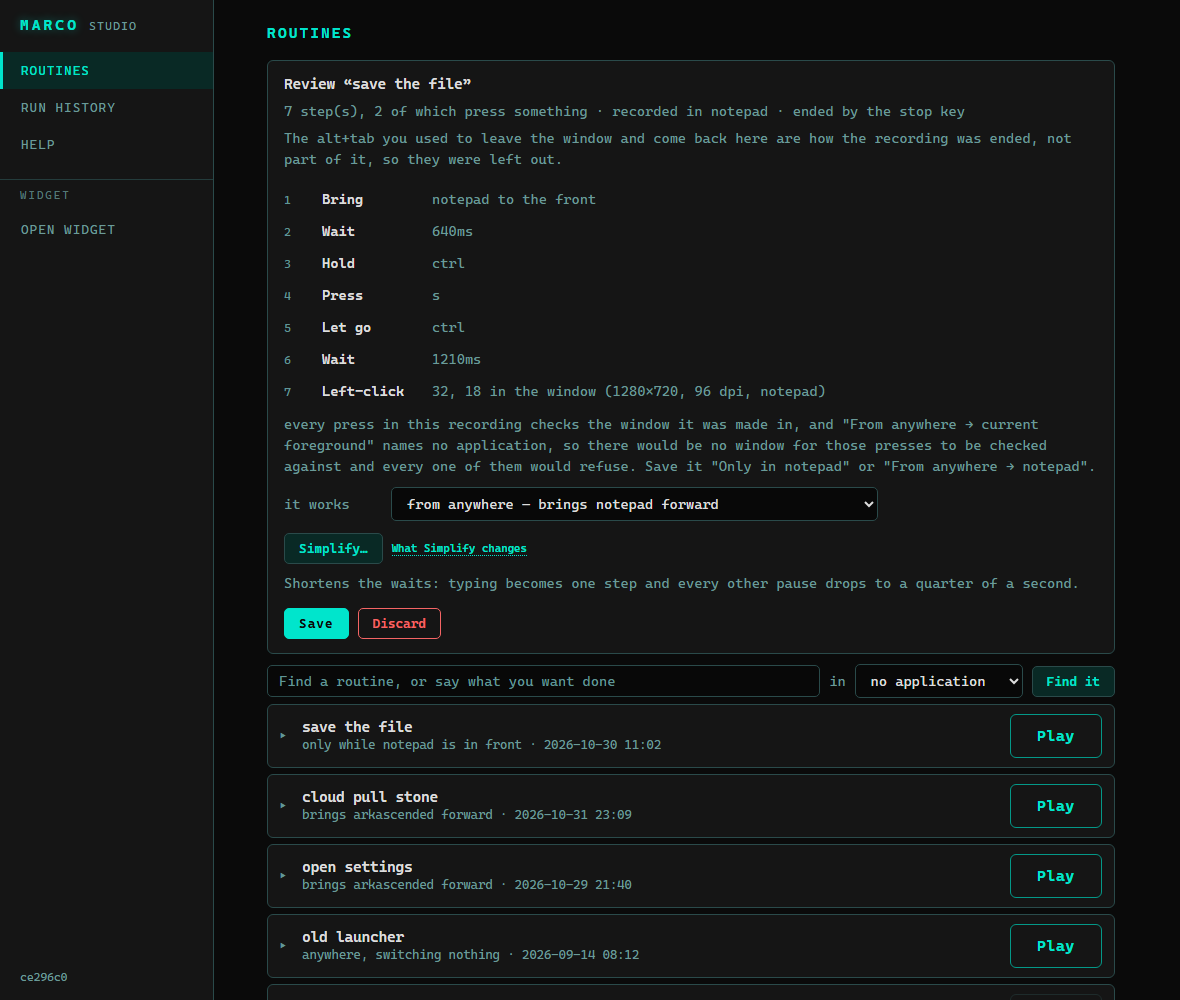
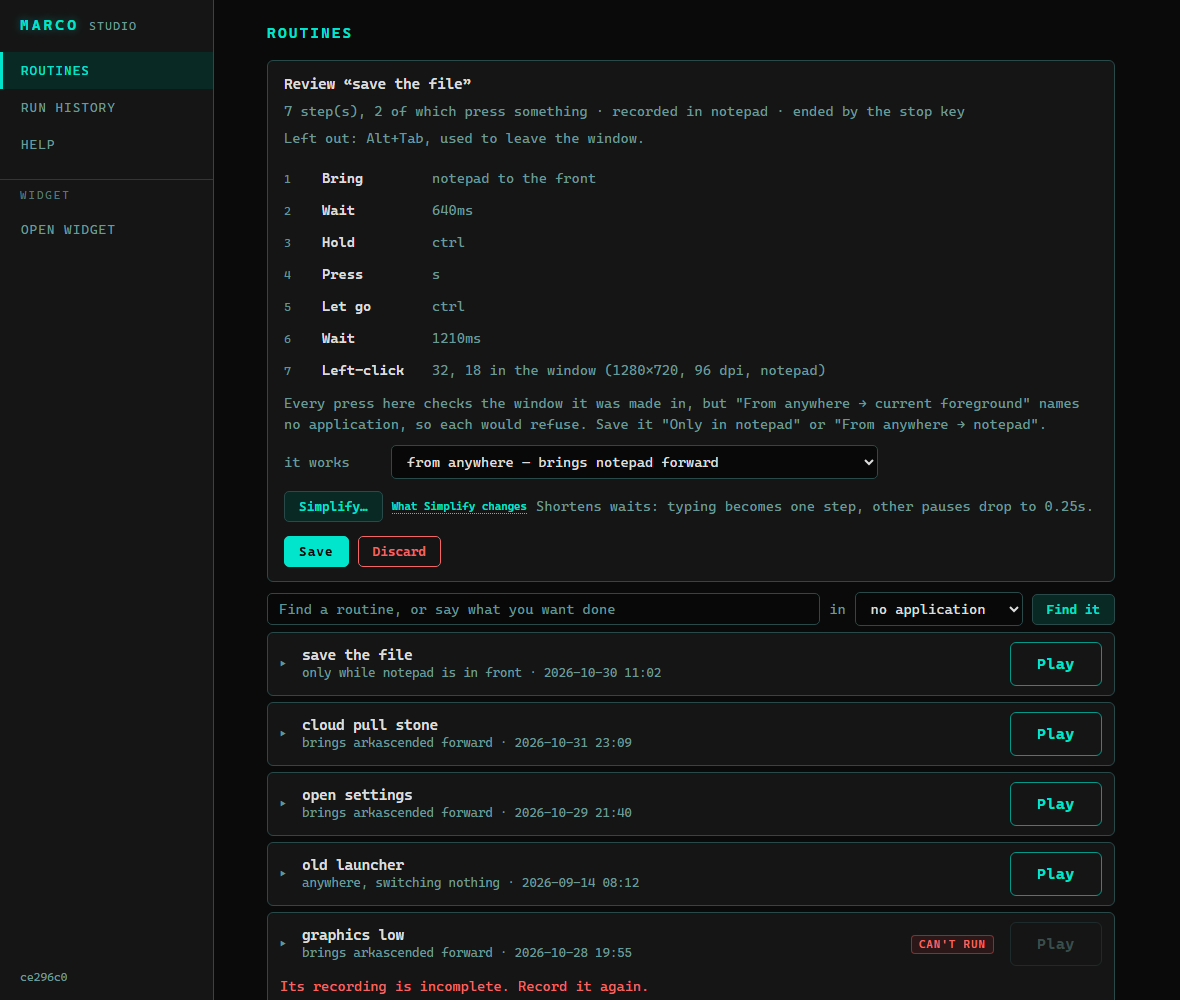
studio: compact copy
The visible sentences on the record card, the recording band, the
review and the step editor are cut to about half their words, each
keeping its facts: "Left out: Alt+Tab, used to leave the window.",
"Left out: 8s outside the window (once), and anything you did there.",
the withheld scope in 30 words instead of 51. The shared ones live in
orchestrator, so `marco learn` says the same thing.

Refusals, named consequences, the this-machine-cannot remedy and
Simplify's timing and value-loss warnings stay visible. A step's
"cannot be checked" is kept; the guard caught a first cut that dropped
it. Wording tests pin the same meanings in the new words, and the
harness fixtures carry the new wording. ADR-310, "Compact copy".

diff --git a/plugins/studio/frontend/index.html b/plugins/studio/frontend/index.html
@@ -941,7 +941,7 @@
          as well, which is what `capEverywhere` says four lines above it, from the backend.
          Two paragraphs used to sit between them and hid the repetition; with those gone the
          rendered page said it twice in one card. -->
-    <div class="muted" style="margin-top:6px">Open it first if it is not in the list.</div>
+    <div class="muted" style="margin-top:6px">Not listed? Open it, then refresh.</div>
     <div class="row" style="margin-top:10px"><label style="width:7em" for="capName">call it</label>
       <input type="text" id="capName" placeholder="what you will ask Marco for"></div>
     <!-- AND HOW TO MAKE A VALUE SOMETHING YOU SUPPLY, UNDER THE FIELD IT IS ABOUT.
@@ -1034,8 +1034,7 @@
     <div class="muted hide" style="margin-top:8px" id="capArgBand"></div>
     <!-- ONE SENTENCE, AND IN THIS PRODUCT'S WORDS. It said "what you are teaching", and TEACH is
          reserved for the mirror image of this: Marco guiding a person. See CLAUDE.md. -->
-    <div class="muted" style="margin-top:12px">Switching back to this window is left out of
-      the recording.</div>
+    <div class="muted" style="margin-top:12px">Coming back to Studio is not recorded.</div>
     <div class="row" style="margin-top:10px">
       <button class="go" id="capStopBtn" onclick="stopCapture()">Stop recording</button>
       <button class="stop" onclick="cancelCapture()">Cancel</button>
@@ -1336,8 +1335,7 @@
          is moved; the honest failure of changing the rule is silence, so it says its name. -->
     <div class="banner hide" style="margin-top:8px" id="libElsewhere"></div>
     <div id="routineList" style="margin-top:4px"></div>
-    <div class="muted hide" id="routineNone">Nothing has been recorded yet. Record one
-      above and it appears here.</div>
+    <div class="muted hide" id="routineNone">No routines yet. Press Record to make one.</div>
     <!-- WHERE THE PANEL WAITS WHILE NO ROUTINE IS OPEN.
          ONE PANEL, CARRIED, AND NEVER REBUILT. Every routine is a row that opens
          where it is, and what opens is this one set of elements moved into that
@@ -3300,14 +3298,13 @@
      const names = ns => ns.map(n => '“' + n + '”').join(', ')
      const marked = r.marked || [], unmarked = r.unmarked || []
      text($('capSimplifySays'), r.simplified
-       ? 'Simplified: typing is one step and every other pause is a quarter of a ' +
-         'second. If it then presses before a screen has caught up, use the original.' +
-         (unmarked.length ? ' Simplifying took off ' + names(unmarked) +
-           ', so that text is typed as recorded again — mark it again to be asked for it.' : '')
-       : 'Shortens the waits: typing becomes one step and every other pause drops to ' +
-         'a quarter of a second.' +
-         (marked.length ? ' It also takes off ' + names(marked) +
-           ', so that text would be typed as recorded again.' : ''))
+       ? 'Simplified: typing is one step, other pauses are 0.25s. If it presses before ' +
+         'the screen catches up, use the original.' +
+         (unmarked.length ? ' Took off ' + names(unmarked) +
+           ': it types as recorded again. Mark it again to be asked for it.' : '')
+       : 'Shortens waits: typing becomes one step, other pauses drop to 0.25s.' +
+         (marked.length ? ' Also takes off ' + names(marked) +
+           ', so that text types as recorded.' : ''))
      // WHICH ROUTINE THIS WILL BE, from the draft's own name. See capReviewName.
      text($('capReviewName'), r.name ? 'Review “' + r.name + '”' : 'Review this recording')
      // WITHOUT ITS FULL STOP, because the line goes on: ` · recorded in … · ended by …`.

diff --git a/docs/images/studio-ui/9-harness/fixtures.js b/docs/images/studio-ui/9-harness/fixtures.js
@@ -1,7 +1,7 @@
 // FIXTURES — production wording, quoted from the Go backend (file:line in the audit doc).
-const CAPTURES = 'Where you press and how long you pause, and nothing about how the screen looked. It does not take a picture of anything.'
-const EVERYWHERE = 'Records actions in the window you choose. Recording pauses outside it. Return to Studio and press Stop, or press F12.'
-const ARG_SAYS = 'Press F9 during the demonstration where the routine should ask for a value instead of typing it. Add \u201cwith item\u201d to the name above and the value is called item.'
+const CAPTURES = 'Records where you press and how long you pause. It does not take a picture of the screen.'
+const EVERYWHERE = 'Records only the window you choose, and pauses when you leave it. Stop with F12 or the Stop button.'
+const ARG_SAYS = 'Press F9 where the routine should ask for a value instead of typing. Add \u201cwith item\u201d to the name to call it item.'
 const WROTE = "This routine states that generation 1 of Marco's rules wrote it, which is the generation this build writes. You can review a version rebuilt from its stored recording, which will show whether it differs from what is saved."
 const LEGACY = 'Its presses are not checked: each one happens at the point it was recorded at, whatever is there now.'
 const NP = 'notepad \u2014 Untitled - Notepad'
@@ -28,6 +28,7 @@ window.LIB = [
   {id: 'arkascended/focus/graphics-low', name: 'graphics low', slug: 'graphics-low', app: 'arkascended',
    scope: 'app-anywhere', contract: 'incomplete', mode: 'coordinates', captures: CAPTURES, runnable: false,
    why: 'The recording is missing how wide that window was and what scale it was drawn at, so every press refuses. Record it again.',
+   cant: 'Its recording is incomplete. Record it again.',
    saved_at: '2026-10-28 19:55', generation: 'current', declared_generation: '1', wrote: WROTE, rebuildable: true, offer: true,
    source: '// Recorded as: coordinates.\nuse os.\n'},
 ]

diff --git a/docs/images/studio-ui/9-harness/states/17-review-simplified.js b/docs/images/studio-ui/9-harness/states/17-review-simplified.js
@@ -2,7 +2,7 @@ F.Recording = {active: false, review: true, name: 'type a note', application: 'n
   mode: 'coordinates', captures: CAPTURES, everywhere: EVERYWHERE, arg_key: 'F9', stop_key: 'F12', pressable: 2, basis: 'b3',
   steps: ['bring notepad to the front', 'wait 250ms', 'left-click at 400, 300 in the window (1280\u00d7720, 96 dpi, notepad)', 'wait 250ms', 'type "draft notes"', 'press enter'],
   said: '6 step(s), 3 of which press something.', simplified: true, original: true, unmarked: ['note'],
-  default_scope: 'app-anywhere', unavailable: {everywhere: 'every press in this recording checks the window it was made in, and "From anywhere → current foreground" names no application, so there would be no window for those presses to be checked against and every one of them would refuse. Save it "Only in notepad" or "From anywhere → notepad".'},
+  default_scope: 'app-anywhere', unavailable: {everywhere: 'Every press here checks the window it was made in, but "From anywhere → current foreground" names no application, so each would refuse. Save it "Only in notepad" or "From anywhere → notepad".'},
   supply: [{at: 4, label: 'step 5 \u2014 types "draft notes"'}],
-  supply_says: 'Ask for a value instead of typing it: pick a step, name the value, and the routine will ask for it when you play it.'}
+  supply_says: 'Pick a typed step and name it, and Play will ask for that value instead of typing it.'}
 __at(1500, () => __scrollTo('capReview', 60))

diff --git a/docs/images/studio-ui/9-harness/states/08-review-refusal.js b/docs/images/studio-ui/9-harness/states/08-review-refusal.js
@@ -4,9 +4,9 @@ F.Recording = {active: false, review: true, name: 'graphics low', application: '
           'left-click at 960, 540 in the window (1920\u00d71080, cannot be checked \u2014 what scale it was drawn at was not measured)',
           'wait 700ms', 'left-click at 412, 655 in the window (1920\u00d71080, cannot be checked \u2014 what scale it was drawn at was not measured)'],
   said: '6 step(s), 3 of which press something.',
-  away: 'You left the window once, for 8s in all. Nothing from out there was recorded, and the waiting is not in the routine.',
+  away: 'Left out: 8s outside the window (once), and anything you did there.',
   incomplete: true,
   missing: '2 presses are missing measurements: what scale it was drawn at. Record it again with the program in front of you.',
   default_scope: 'app-anywhere',
-  unavailable: {everywhere: 'every press in this recording checks the window it was made in, and "From anywhere → current foreground" names no application, so there would be no window for those presses to be checked against and every one of them would refuse. Save it "Only in arkascended" or "From anywhere → arkascended".'}}
+  unavailable: {everywhere: 'Every press here checks the window it was made in, but "From anywhere → current foreground" names no application, so each would refuse. Save it "Only in arkascended" or "From anywhere → arkascended".'}}
 __at(1500, () => __scrollTo('capReview', 60))

diff --git a/docs/images/studio-ui/9-harness/states/07-review.js b/docs/images/studio-ui/9-harness/states/07-review.js
@@ -3,7 +3,7 @@ F.Recording = {active: false, review: true, name: 'save the file', application: 
   steps: ['bring notepad to the front', 'wait 640ms', 'hold ctrl', 'press s', 'let go of ctrl', 'wait 1210ms',
           'left-click at 32, 18 in the window (1280\u00d7720, 96 dpi, notepad)'],
   said: '7 step(s), 2 of which press something.',
-  exit: 'The alt+tab you used to leave the window and come back here are how the recording was ended, not part of it, so they were left out.',
+  exit: 'Left out: Alt+Tab, used to leave the window.',
   default_scope: 'app-anywhere',
-  unavailable: {everywhere: 'every press in this recording checks the window it was made in, and "From anywhere → current foreground" names no application, so there would be no window for those presses to be checked against and every one of them would refuse. Save it "Only in notepad" or "From anywhere → notepad".'}}
+  unavailable: {everywhere: 'Every press here checks the window it was made in, but "From anywhere → current foreground" names no application, so each would refuse. Save it "Only in notepad" or "From anywhere → notepad".'}}
 __at(1500, () => __scrollTo('capReview', 60))

diff --git a/docs/images/studio-ui/9-harness/states/06-paused.js b/docs/images/studio-ui/9-harness/states/06-paused.js
@@ -1,4 +1,4 @@
 F.Recording = {active: true, name: 'save the file', stop_key: 'F12', mode: 'coordinates', captures: CAPTURES,
   everywhere: EVERYWHERE, arg_key: 'F9', arg_says: ARG_SAYS, window: NP,
-  paused: 'Paused: you have left ' + NP + '. Nothing you do elsewhere is being recorded. (12s)'}
+  paused: 'Paused: you left ' + NP + '. Nothing elsewhere is being recorded. (12s)'}
 __at(1200, () => __scrollTo('capturing', 60))

diff --git a/plugins/studio/recording.go b/plugins/studio/recording.go
@@ -801,9 +801,8 @@ func (a *Acts) Recording() Recording {
 		out.Window = window
 		if shot != nil {
 			if paused, since := shot.Paused(); paused {
-				out.Paused = fmt.Sprintf("Paused: you have left %s. "+
-					"Nothing you do elsewhere is being recorded. "+
-					"(%s)", nameOr(window, "the window"),
+				out.Paused = fmt.Sprintf("Paused: you left %s. Nothing "+
+					"elsewhere is being recorded. (%s)", nameOr(window, "the window"),
 					since.Round(time.Second))
 			}
 		}
@@ -999,8 +998,8 @@ func oneStep(s macroir.Step) string {
 func capturesSentence(m orchestrator.RecordedAs) string {
 	switch m {
 	case orchestrator.Coordinates:
-		return "Where you press and how long you pause, and nothing about how the " +
-			"screen looked. It does not take a picture of anything."
+		return "Records where you press and how long you pause. It does not take a " +
+			"picture of the screen."
 	}
 	return "what this recording captures is not being stated, so it depends on how " +
 		"Marco was started"
@@ -1304,8 +1303,8 @@ func (a *Acts) Resave(id string) string {
 // rule moves again the sentence moves with it rather than going quietly stale. Held by
 // `TestTheWindowSaysWhatARecordingTakesInBeforeRecord`.
 func everywhereSentence(stopKey string) string {
-	return "Records actions in the window you choose. Recording pauses outside it. " +
-		"Return to Studio and press Stop, or press " + stopKey + "."
+	return "Records only the window you choose, and pauses when you leave it. Stop " +
+		"with " + stopKey + " or the Stop button."
 }
 
 // argKeyLabel is the configured "an argument goes here" key, as a person would read it, or ""
@@ -1352,9 +1351,8 @@ func argSentence(key string, argNames []string) string {
 		return "Press " + key + " where each value goes, in order: " +
 			strings.Join(argNames, ", ") + "."
 	default:
-		return "Press " + key + " during the demonstration where the routine " +
-			"should ask for a value instead of typing it. Add " +
-			"“with item” to the name above and the value is called item."
+		return "Press " + key + " where the routine should ask for a value instead " +
+			"of typing. Add “with item” to the name to call it item."
 	}
 }
 

diff --git a/internal/orchestrator/draft.go b/internal/orchestrator/draft.go
@@ -428,9 +428,10 @@ func (dr *Draft) AwaySentence() string {
 	if dr.Absences > 1 {
 		times = fmt.Sprintf("%d times", dr.Absences)
 	}
-	return fmt.Sprintf("You left the window %s, for %s in all. Nothing from out there was "+
-		"recorded, and the waiting is not in the routine.", times,
-		dr.Away.Round(time.Second))
+	// "LEFT OUT:" FIRST, because that is the news, and the time is both halves of it: the
+	// wait is out of the routine, and so is whatever was done meanwhile.
+	return fmt.Sprintf("Left out: %s outside the window (%s), and anything you did there.",
+		dr.Away.Round(time.Second), times)
 }
 
 // ExitSentence is what review tells the person was left out of their demonstration, or "" when
@@ -446,8 +447,21 @@ func (dr *Draft) ExitSentence() string {
 	if dr == nil || len(dr.Exit) == 0 {
 		return ""
 	}
-	return "The " + joinWords(dr.Exit) + " you used to leave the window and come back " +
-		"here are how the recording was ended, not part of it, so they were left out."
+	// AS THEY ARE PRESSED: `Alt+Tab`, the way the keys are written on a keyboard, and not
+	// "alt and tab", which reads as two separate things somebody did.
+	return "Left out: " + chordWords(dr.Exit) + ", used to leave the window."
+}
+
+// chordWords is keys as somebody writes them down: each capitalised, joined by `+`.
+func chordWords(keys []string) string {
+	out := make([]string, 0, len(keys))
+	for _, k := range keys {
+		if k == "" {
+			continue
+		}
+		out = append(out, strings.ToUpper(k[:1])+k[1:])
+	}
+	return strings.Join(out, "+")
 }
 
 // Save writes a draft as legal Marco, under the scope it is given.

diff --git a/plugins/studio/exitgesture_test.go b/plugins/studio/exitgesture_test.go
@@ -73,7 +73,7 @@ func TestComingBackByAltTabLeavesARecordingThatSaves(t *testing.T) {
 	// AND REVIEW SAYS SO. This is the only thing the boundary takes out instead of
 	// refusing, so the card has to name it: the person is the only one who can say that
 	// the Alt they held was something they meant.
-	if !strings.Contains(r.Exit, "alt and tab") {
+	if !strings.Contains(r.Exit, "Left out: Alt+Tab") {
 		t.Errorf("the review card says %q about what it left out", r.Exit)
 	}
 }
@@ -144,7 +144,7 @@ setTimeout(() => {
   // gives: an element shown with nothing in it cannot be told from an absent one by
   // reading its text, and a mutation that showed it unconditionally survives a
   // claim-level assertion on its own.
-  document.title = 'exitsaid=' + (shown.includes('alt and tab') ? 1 : 0) +
+  document.title = 'exitsaid=' + (shown.includes('Left out: Alt+Tab') ? 1 : 0) +
     ' exitbox=' + (el.classList.contains('hide') ? 0 : 1)
 }, 5200)`)
 	if !strings.Contains(title, "exitsaid=") {
@@ -164,8 +164,7 @@ setTimeout(() => {
 func TestTheReviewCardSaysWhatTheWayOutLeftOut(t *testing.T) {
 	title, n := aRenderedExitPage(t, `{review: true, name: 'enter freeplay',
 		steps: ['press the left button at 722, 210 in the window'], pressable: 1,
-		exit: 'The alt and tab you used to leave the window and come back here ' +
-			'are how the recording was ended, not part of it, so they were left out.'}`)
+		exit: 'Left out: Alt+Tab, used to leave the window.'}`)
 	if n("exitsaid") != 1 {
 		t.Errorf("the card does not say what was left out: %q", title)
 	}

diff --git a/internal/orchestrator/inwindow_test.go b/internal/orchestrator/inwindow_test.go
@@ -392,15 +392,15 @@ func TestTheChosenWindowClosingEndsARecordingNobodyStopped(t *testing.T) {
 // that the recorder missed something. This is the terminal; `plugins/studio`
 // `TestReviewSaysTheWindowWasLeft` is the window.
 func TestTheTerminalSaysTheWindowWasLeft(t *testing.T) {
-	// THE SENTENCE ITSELF: how often, how long, and that neither the input nor the
-	// waiting is in the routine.
+	// THE SENTENCE ITSELF: how often, how long, and that the wait and the input are both
+	// left out of the routine.
 	rec := &confinedRecorder{events: aDemonstrationWithAnAbsence()}
 	c, err := Deps{Rec: rec, Window: theGameWindow}.Begin("ark graphics")
 	if err != nil {
 		t.Fatalf("Begin: %v", err)
 	}
 	said := c.Finish().AwaySentence()
-	for _, want := range []string{"left the window", "once", "30s", "not in the routine"} {
+	for _, want := range []string{"Left out: ", "outside the window", "once", "30s", "anything you did there"} {
 		if !strings.Contains(said, want) {
 			t.Errorf("the sentence does not mention %q: %q", want, said)
 		}
@@ -426,7 +426,7 @@ func TestTheTerminalSaysTheWindowWasLeft(t *testing.T) {
 	if err := d.Learn("ark graphics"); err != nil {
 		t.Fatalf("Learn: %v\n%s", err, out.String())
 	}
-	if !strings.Contains(out.String(), "left the window") {
+	if !strings.Contains(out.String(), "outside the window (once)") {
 		t.Errorf("the terminal never said it:\n%s", out.String())
 	}
 }

diff --git a/plugins/studio/reviewagainpage_test.go b/plugins/studio/reviewagainpage_test.go
@@ -229,7 +229,7 @@ func TestSimplifySaysWhatItCostsBeforeAndAfter(t *testing.T) {
   steps: ['type "{{item}}"'], said: '1 step(s).', marked: ['item']}`, twoWindows, twoWindows), `
 setTimeout(() => {
   const s = shown('capSimplifySays')
-  document.title = 'ran=1 timing=' + (s.includes('quarter of a second') ? 1 : 0) +
+  document.title = 'ran=1 timing=' + (s.includes('pauses drop to 0.25s') ? 1 : 0) +
     ' marks=' + (s.includes('takes off “item”') ? 1 : 0)
 }, 2500)`)
 	if before("timing") != 1 || before("marks") != 1 {
@@ -242,9 +242,9 @@ setTimeout(() => {
   unmarked: ['item']}`, twoWindows, twoWindows), `
 setTimeout(() => {
   const s = shown('capSimplifySays')
-  document.title = 'ran=1 timing=' + (s.includes('quarter of a') ? 1 : 0) +
+  document.title = 'ran=1 timing=' + (s.includes('pauses are 0.25s') ? 1 : 0) +
     ' back=' + (s.includes('use the original') ? 1 : 0) +
-    ' marks=' + (s.includes('took off “item”') ? 1 : 0) +
+    ' marks=' + (s.includes('Took off “item”') ? 1 : 0) +
     ' notip=' + (document.getElementById('capSimplifyBtn').title ? 0 : 1)
 }, 2500)`)
 	if after("timing") != 1 || after("back") != 1 || after("marks") != 1 {

diff --git a/internal/orchestrator/exitgesture_test.go b/internal/orchestrator/exitgesture_test.go
@@ -95,7 +95,7 @@ func TestTheKeysUsedToLeaveAreNotInTheDemonstrationAndWhatPrecededThemIs(t *test
 	// AND IT IS SAID. Leaving something out of somebody's demonstration silently is the
 	// same discard, one layer along: the only person who can disagree is the one who
 	// performed it, and they can only disagree if review tells them.
-	if !strings.Contains(dr.ExitSentence(), "alt and tab") {
+	if !strings.Contains(dr.ExitSentence(), "Left out: Alt+Tab") {
 		t.Errorf("review does not say what was left out: %q", dr.ExitSentence())
 	}
 }
@@ -340,7 +340,7 @@ func TestTheTerminalSaysWhatTheWayOutLeftOut(t *testing.T) {
 	if err := d.Learn("ark graphics"); err != nil {
 		t.Fatalf("Learn: %v\n%s", err, out.String())
 	}
-	if !strings.Contains(out.String(), "alt and tab") {
+	if !strings.Contains(out.String(), "Left out: Alt+Tab") {
 		t.Errorf("the terminal never said what it left out:\n%s", out.String())
 	}
 }
